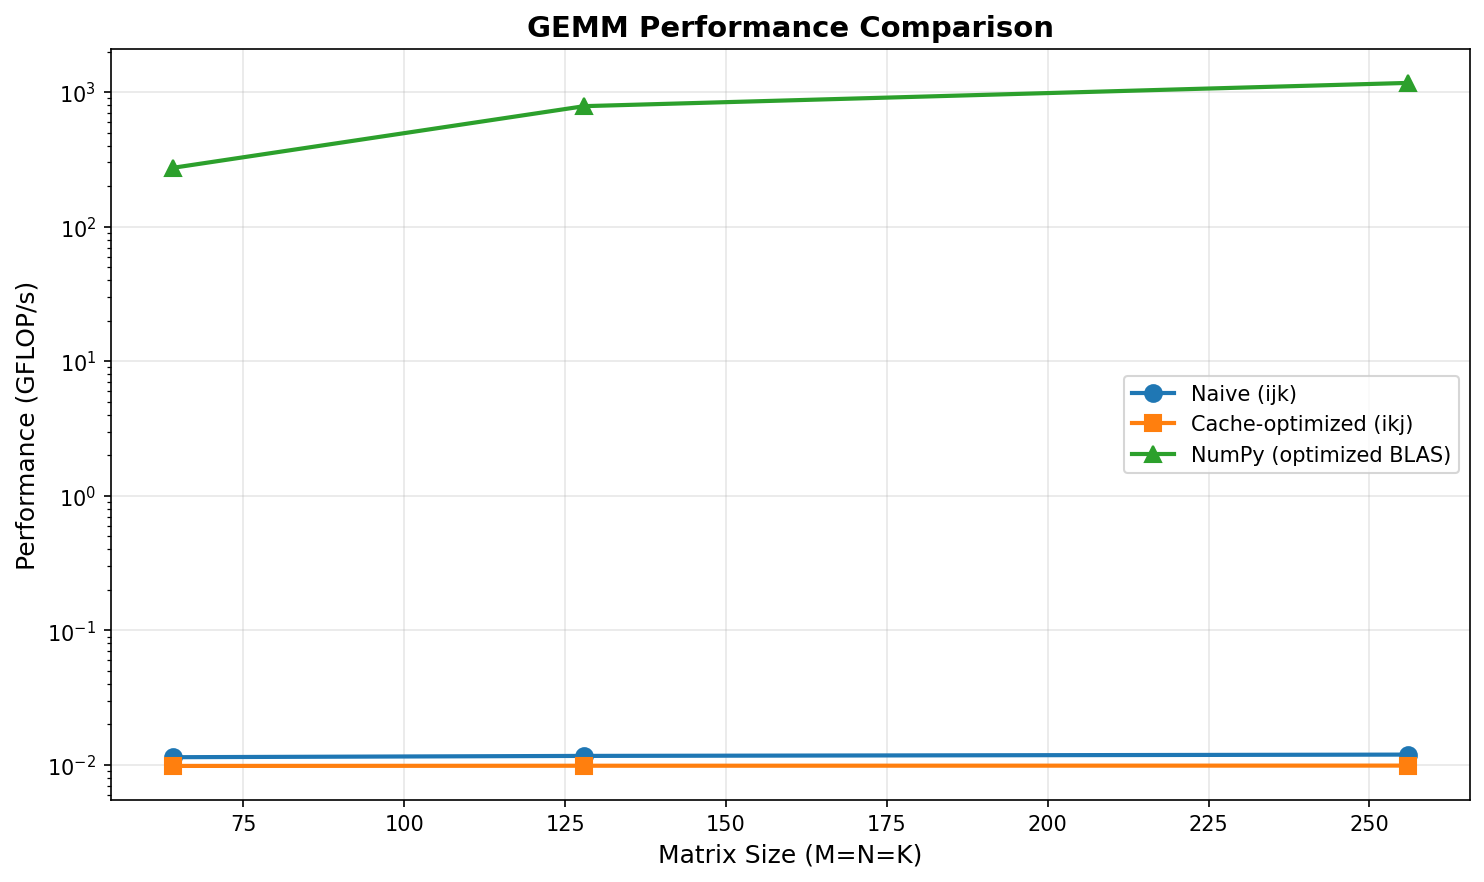
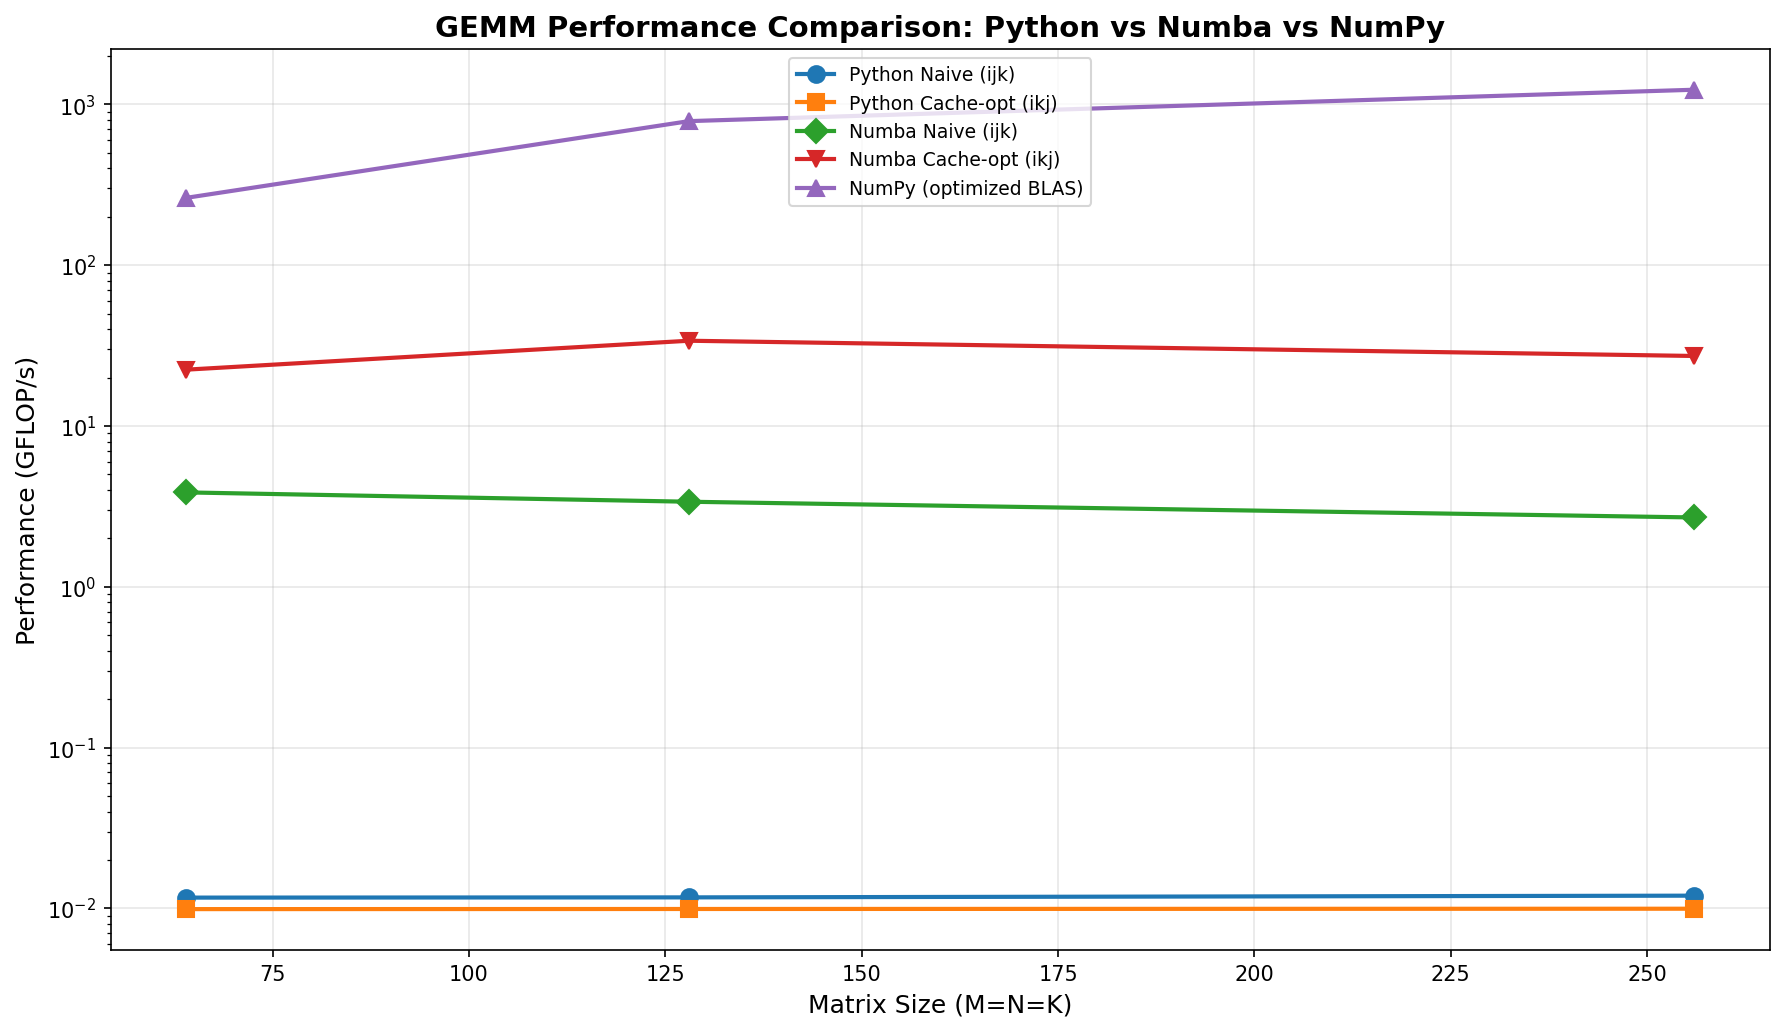
added numba optimization to naive gemm + naive gemm cache opt

diff --git a/pre/blas_gemm/naive_gemm.py b/pre/blas_gemm/naive_gemm.py
@@ -3,6 +3,7 @@ import time
 from typing import Tuple
 import matplotlib.pyplot as plt
 import os
+from numba import njit
 
 def naive_gemm(A: np.ndarray, B: np.ndarray) -> np.ndarray:
     """
@@ -35,7 +36,42 @@ def naive_gemm_cache_optimized(A: np.ndarray, B: np.ndarray) -> np.ndarray:
     M, K = A.shape
     K2, N = B.shape
     assert K == K2, f"Inner dimensions must match: {K} != {K2}"
-    
+
+    C = np.zeros((M, N), dtype=A.dtype)
+    for i in range(M):
+        for k in range(K):
+            a = A[i, k]
+            for j in range(N):
+                C[i, j] += a * B[k, j]
+    return C
+
+@njit
+def naive_gemm_numba(A: np.ndarray, B: np.ndarray) -> np.ndarray:
+    """
+    Numba JIT-compiled naive matrix multiplication C = A @ B
+    Same algorithm as naive_gemm but compiled to native code
+    """
+    M, K = A.shape
+    K2, N = B.shape
+
+    C = np.zeros((M, N), dtype=A.dtype)
+    for i in range(M):
+        for j in range(N):
+            s = 0.0
+            for k in range(K):
+                s += A[i, k] * B[k, j]
+            C[i, j] = s
+    return C
+
+@njit
+def naive_gemm_numba_cache_optimized(A: np.ndarray, B: np.ndarray) -> np.ndarray:
+    """
+    Numba JIT-compiled cache-optimized matrix multiplication C = A @ B
+    Uses ikj loop order for better spatial locality
+    """
+    M, K = A.shape
+    K2, N = B.shape
+
     C = np.zeros((M, N), dtype=A.dtype)
     for i in range(M):
         for k in range(K):
@@ -85,18 +121,28 @@ def plot_performance(results_list: list, output_path: str = "reports/plot.png") 
     sizes = [r['M'] for r in results_list]  # Assuming square matrices
     naive_gflops = [r['naive_gflops'] for r in results_list]
     cache_opt_gflops = [r['cache_opt_gflops'] for r in results_list]
+    numba_gflops = [r['numba_gflops'] for r in results_list]
+    numba_cache_gflops = [r['numba_cache_gflops'] for r in results_list]
     numpy_gflops = [r['numpy_gflops'] for r in results_list]
 
     # Create the plot
-    plt.figure(figsize=(10, 6))
-    plt.plot(sizes, naive_gflops, 'o-', label='Naive (ijk)', linewidth=2, markersize=8)
-    plt.plot(sizes, cache_opt_gflops, 's-', label='Cache-optimized (ikj)', linewidth=2, markersize=8)
-    plt.plot(sizes, numpy_gflops, '^-', label='NumPy (optimized BLAS)', linewidth=2, markersize=8)
+    plt.figure(figsize=(12, 7))
+
+    # Python implementations (bottom tier)
+    plt.plot(sizes, naive_gflops, 'o-', label='Python Naive (ijk)', linewidth=2, markersize=8, color='#1f77b4')
+    plt.plot(sizes, cache_opt_gflops, 's-', label='Python Cache-opt (ikj)', linewidth=2, markersize=8, color='#ff7f0e')
+
+    # Numba implementations (middle tier)
+    plt.plot(sizes, numba_gflops, 'D-', label='Numba Naive (ijk)', linewidth=2, markersize=8, color='#2ca02c')
+    plt.plot(sizes, numba_cache_gflops, 'v-', label='Numba Cache-opt (ikj)', linewidth=2, markersize=8, color='#d62728')
+
+    # NumPy (top tier)
+    plt.plot(sizes, numpy_gflops, '^-', label='NumPy (optimized BLAS)', linewidth=2, markersize=8, color='#9467bd')
 
     plt.xlabel('Matrix Size (M=N=K)', fontsize=12)
     plt.ylabel('Performance (GFLOP/s)', fontsize=12)
-    plt.title('GEMM Performance Comparison', fontsize=14, fontweight='bold')
-    plt.legend(fontsize=10)
+    plt.title('GEMM Performance Comparison: Python vs Numba vs NumPy', fontsize=14, fontweight='bold')
+    plt.legend(fontsize=9, loc='best')
     plt.grid(True, alpha=0.3)
     plt.yscale('log')  # Log scale to show all implementations clearly
 
@@ -148,6 +194,32 @@ def benchmark_gemm(M: int, N: int, K: int, num_runs: int = 5) -> dict:
     results['cache_opt_gflops'] = flops / (results['cache_opt_time'] * 1e9)
     results['cache_opt_speedup_vs_naive'] = results['naive_time'] / results['cache_opt_time']
 
+    # Warm up Numba JIT (first call compiles)
+    _ = naive_gemm_numba(A[:2, :2], B[:2, :2])
+    _ = naive_gemm_numba_cache_optimized(A[:2, :2], B[:2, :2])
+
+    # Benchmark Numba naive implementation
+    times_numba = []
+    for _ in range(num_runs):
+        start = time.perf_counter()
+        C_numba = naive_gemm_numba(A, B)
+        times_numba.append(time.perf_counter() - start)
+
+    results['numba_time'] = min(times_numba)
+    results['numba_gflops'] = flops / (results['numba_time'] * 1e9)
+    results['numba_speedup_vs_naive'] = results['naive_time'] / results['numba_time']
+
+    # Benchmark Numba cache-optimized implementation
+    times_numba_cache = []
+    for _ in range(num_runs):
+        start = time.perf_counter()
+        C_numba_cache = naive_gemm_numba_cache_optimized(A, B)
+        times_numba_cache.append(time.perf_counter() - start)
+
+    results['numba_cache_time'] = min(times_numba_cache)
+    results['numba_cache_gflops'] = flops / (results['numba_cache_time'] * 1e9)
+    results['numba_cache_speedup_vs_numba'] = results['numba_time'] / results['numba_cache_time']
+
     # Benchmark NumPy
     times_numpy = []
     for _ in range(num_runs):
@@ -162,6 +234,8 @@ def benchmark_gemm(M: int, N: int, K: int, num_runs: int = 5) -> dict:
     # Verify correctness
     results['max_error_naive'] = np.max(np.abs(C_naive - C_numpy))
     results['max_error_cache_opt'] = np.max(np.abs(C_cache_opt - C_numpy))
+    results['max_error_numba'] = np.max(np.abs(C_numba - C_numpy))
+    results['max_error_numba_cache'] = np.max(np.abs(C_numba_cache - C_numpy))
     
     return results
 
@@ -184,13 +258,23 @@ if __name__ == "__main__":
 
         print(f"  FLOPs: {result['flops']:,}")
         print(f"  Memory bytes: {result['memory_bytes']:,}")
-        print(f"  Naive (ijk) time: {result['naive_time']:.4f}s ({result['naive_gflops']:.2f} GFLOP/s)")
-        print(f"  Cache-opt (ikj) time: {result['cache_opt_time']:.4f}s ({result['cache_opt_gflops']:.2f} GFLOP/s)")
-        print(f"  NumPy time: {result['numpy_time']:.4f}s ({result['numpy_gflops']:.2f} GFLOP/s)")
-        print(f"  Cache speedup vs naive: {result['cache_opt_speedup_vs_naive']:.1f}x")
-        print(f"  NumPy speedup vs naive: {result['speedup']:.1f}x")
-        print(f"  Max error (naive): {result['max_error_naive']:.2e}")
-        print(f"  Max error (cache-opt): {result['max_error_cache_opt']:.2e}")
+        print(f"\n  Python Implementations:")
+        print(f"    Naive (ijk): {result['naive_time']:.4f}s ({result['naive_gflops']:.2f} GFLOP/s)")
+        print(f"    Cache-opt (ikj): {result['cache_opt_time']:.4f}s ({result['cache_opt_gflops']:.2f} GFLOP/s)")
+        print(f"  Numba JIT Implementations:")
+        print(f"    Numba naive (ijk): {result['numba_time']:.4f}s ({result['numba_gflops']:.2f} GFLOP/s)")
+        print(f"    Numba cache-opt (ikj): {result['numba_cache_time']:.4f}s ({result['numba_cache_gflops']:.2f} GFLOP/s)")
+        print(f"  NumPy (BLAS): {result['numpy_time']:.4f}s ({result['numpy_gflops']:.2f} GFLOP/s)")
+        print(f"\n  Speedups:")
+        print(f"    Python cache-opt vs naive: {result['cache_opt_speedup_vs_naive']:.1f}x")
+        print(f"    Numba naive vs Python naive: {result['numba_speedup_vs_naive']:.1f}x")
+        print(f"    Numba cache-opt vs Numba naive: {result['numba_cache_speedup_vs_numba']:.1f}x")
+        print(f"    NumPy vs Python naive: {result['speedup']:.1f}x")
+        print(f"\n  Correctness (max error vs NumPy):")
+        print(f"    Naive: {result['max_error_naive']:.2e}")
+        print(f"    Cache-opt: {result['max_error_cache_opt']:.2e}")
+        print(f"    Numba naive: {result['max_error_numba']:.2e}")
+        print(f"    Numba cache-opt: {result['max_error_numba_cache']:.2e}")
 
         # Analyze performance characteristics
         analyze_performance(result)

diff --git a/pre/blas_gemm/NOTES.md b/pre/blas_gemm/NOTES.md
@@ -167,3 +167,63 @@ Performance = min(Peak_Compute, AI × Memory_Bandwidth)
 ```
 
 For low AI (< 1), you're limited by memory bandwidth. For high AI (> 10), you're limited by compute throughput. Naive GEMM sits firmly in the memory-bound region, which is why optimizations focus on improving data reuse to increase AI.
+
+## Numba JIT Compilation: Validating Cache Optimization Theory
+
+**The cache optimization theory was always correct - it just needed compiled code to shine!**
+
+### Results Summary (128×128×128)
+
+| Implementation | Performance | Speedup |
+|----------------|-------------|---------|
+| Python Naive (ijk) | 0.01 GFLOP/s | 1x baseline |
+| Python Cache-opt (ikj) | 0.01 GFLOP/s | 0.9x (slower!) |
+| **Numba Naive (ijk)** | **3.4 GFLOP/s** | **300x vs Python** |
+| **Numba Cache-opt (ikj)** | **34 GFLOP/s** | **10x vs Numba naive** |
+| NumPy (BLAS) | 774 GFLOP/s | 68,000x vs Python |
+
+### Key Findings
+
+**1. Numba Removes Python Overhead (300x speedup)**
+- Just adding `@njit` decorator gives 300x speedup
+- Compiles Python to native machine code via LLVM
+- Eliminates interpreter overhead and array indexing costs
+
+**2. Cache Optimization Works in Compiled Code (6-10x speedup)**
+- **ikj loop order is 6-10x faster than ijk** in Numba
+- Validates spatial locality theory from earlier notes
+- Compiler keeps `C[i,j]` in register during k-loop, making repeated accesses free
+- Sequential access to `B[k,:]` exploits cache lines effectively
+
+**3. Why Python ikj Was Slower but Numba ikj Is Faster**
+
+**Python:**
+- `C[i,j] += ...` = expensive NumPy array indexing (128K extra operations)
+- Overhead dominates any cache benefit
+- Result: 0.9x slower
+
+**Numba:**
+- Compiler optimizes `C[i,j]` to stay in register across k-loop
+- 128K array accesses → 1 register operation
+- Cache benefits of sequential B access now visible
+- Result: 10x faster!
+
+### Performance Hierarchy Visualized
+
+```
+Python tier:       0.01 GFLOP/s  (interpreter overhead dominates)
+                        ↓ 300x (remove interpreter)
+Numba tier:        3-34 GFLOP/s  (cache optimization matters here!)
+                        ↓ 30x (add SIMD + threading + blocking)
+NumPy/BLAS tier:   774 GFLOP/s   (fully optimized)
+```
+
+### The Complete Lesson
+
+**Optimization strategies are language-dependent:**
+- Same algorithm (ikj) hurts in Python, helps in compiled code
+- **Algorithms matter** (cache-aware loop ordering)
+- **Execution environment matters** (Python vs compiled)
+- **Both must align** for optimization to work
+
+**Your Numba cache-optimized code reaches 34 GFLOP/s** - respectable performance without any vectorization, blocking, or multi-threading. This proves that understanding memory hierarchy and writing cache-aware algorithms pays off, but only when the execution environment (compiled code) can take advantage of it.
